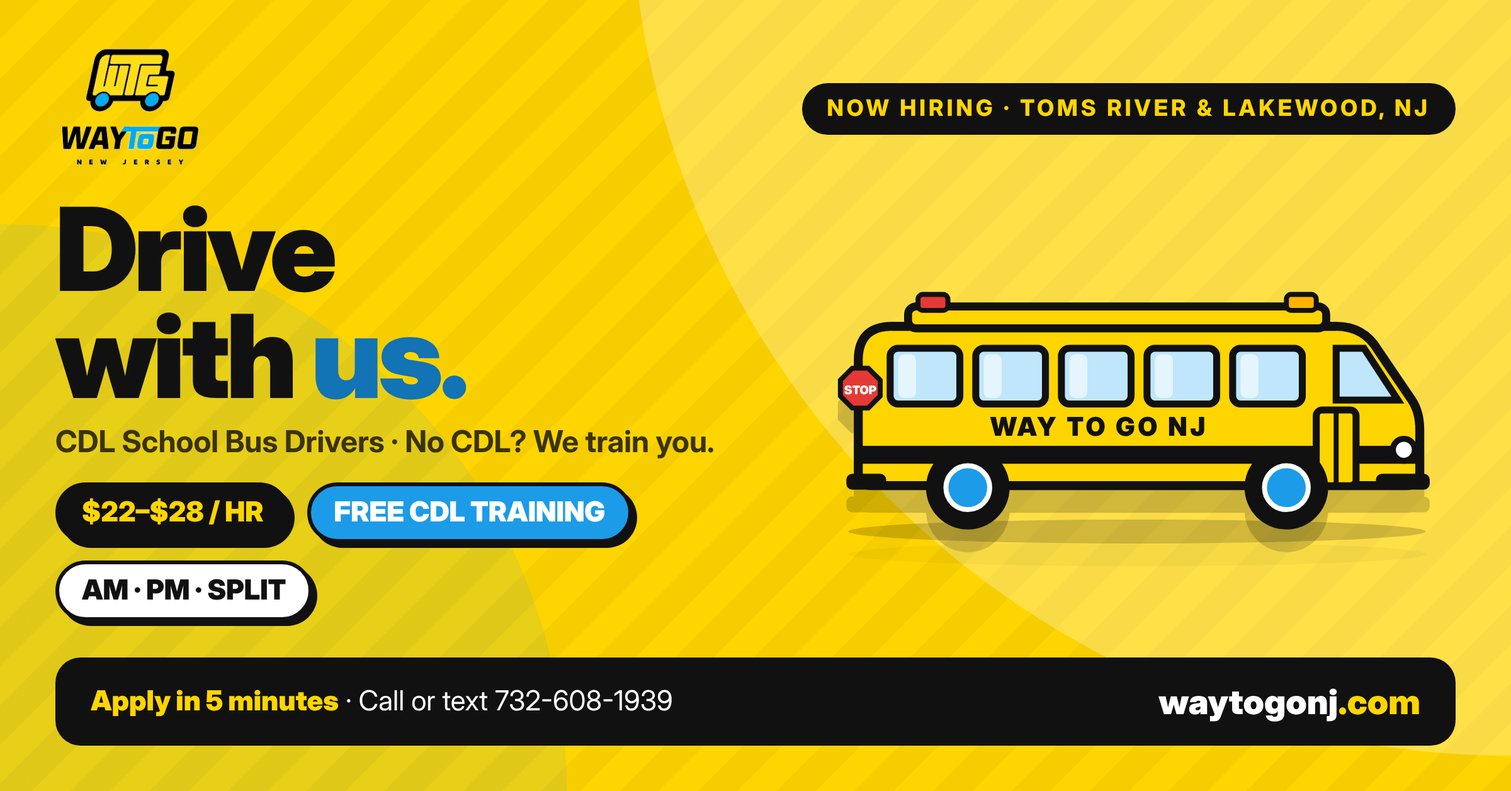
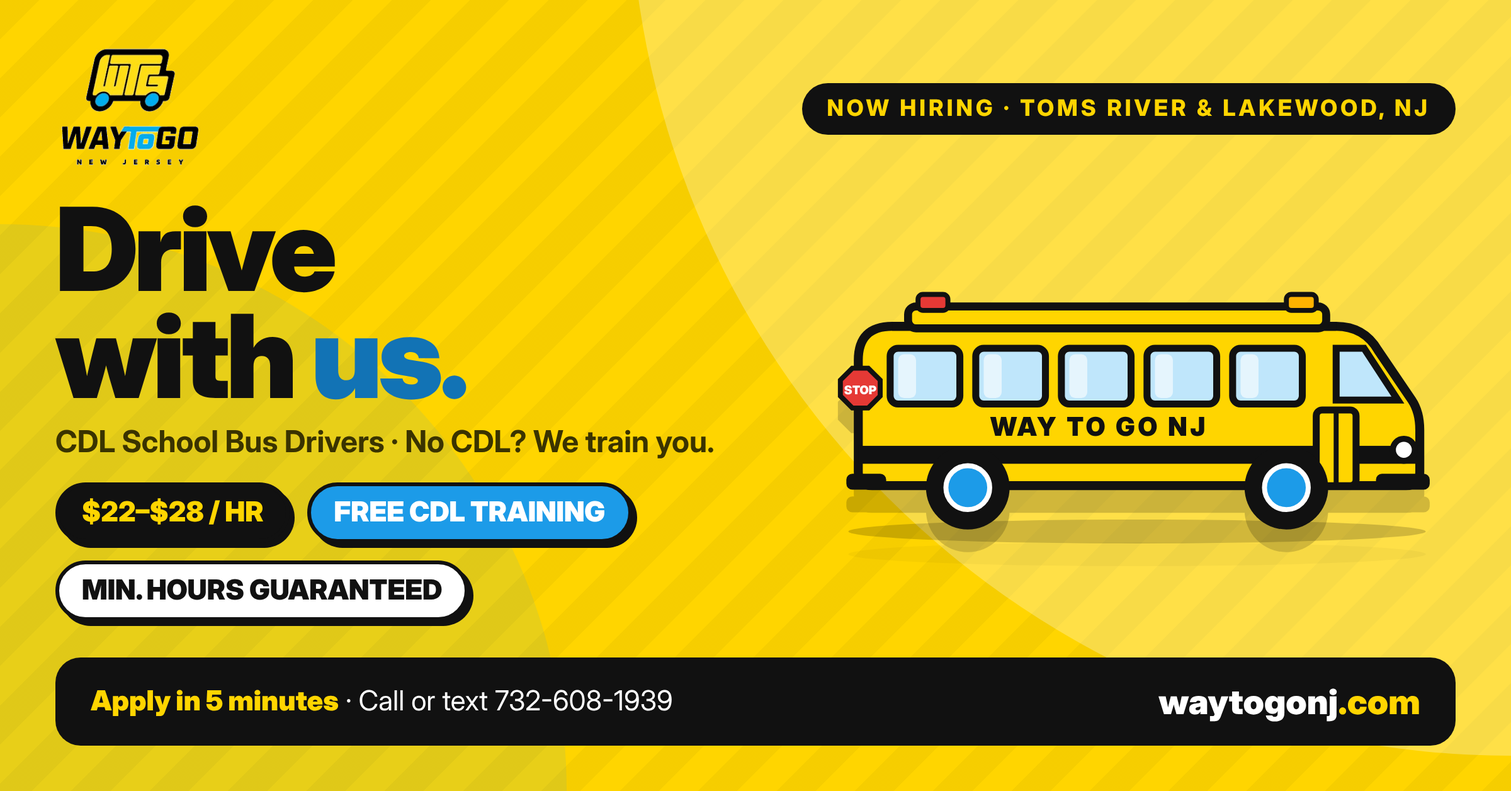
Remove shift wording everywhere; weekly planner in the Routine tab; ads updated
Claude-Session: https://claude.ai/code/session_01GpEHLGCwnEDuXkhiabGNJw

Changed region(s): [[0.0625, 0.6831, 0.3125, 0.8073]]

diff --git a/admin.html b/admin.html
@@ -98,7 +98,27 @@
     .tpl textarea { min-height: 140px; font-size: .92rem; }
     #qrbox { background: #fff; padding: 8px; border-radius: 8px; width: fit-content; }
 
-    /* routine */
+    /* routine planner */
+    .progress { height: 10px; background: var(--bg-alt); border-radius: 999px; overflow: hidden; border: 1px solid var(--line); }
+    .progress div { height: 100%; width: 0; background: var(--yellow); transition: width .3s; }
+    .days { display: grid; gap: 14px; grid-template-columns: repeat(auto-fit, minmax(280px, 1fr)); }
+    .day { background: #fff; border: 1px solid var(--line); border-radius: var(--radius); padding: 18px; display: flex; flex-direction: column; gap: 10px; }
+    .day.today { border: 2px solid var(--blue); box-shadow: 0 8px 24px rgba(28,155,232,.15); }
+    .day.past { opacity: .75; }
+    .day .dh { display: flex; justify-content: space-between; align-items: baseline; }
+    .day .dh b { font-size: 1.1rem; }
+    .day .dh span { font-size: .8rem; color: var(--muted); font-weight: 600; }
+    .day .dh .tdy { color: var(--blue-dark); }
+    .task { display: grid; grid-template-columns: 24px 1fr auto; gap: 10px; align-items: start; padding: 8px 0; border-top: 1px solid var(--line); }
+    .task:first-of-type { border-top: 0; }
+    .task input { width: 20px; height: 20px; margin: 2px 0 0; }
+    .task.done label { text-decoration: line-through; color: var(--muted); }
+    .task label { font-size: .95rem; cursor: pointer; }
+    .task .act { display: flex; gap: 6px; }
+    .task .act button, .task .act a { font: 600 .75rem var(--font); padding: 5px 10px; border-radius: 999px; border: 1px solid var(--line); background: var(--bg-alt); color: var(--ink); cursor: pointer; white-space: nowrap; }
+    .task .act button:hover, .task .act a:hover { background: var(--yellow); }
+    .day.off { background: var(--bg-alt); }
+    /* routine (legacy table) */
     table { border-collapse: collapse; width: 100%; font-size: .92rem; }
     th, td { text-align: left; padding: 10px; border-top: 1px solid var(--line); vertical-align: top; }
     th { font-size: .72rem; text-transform: uppercase; letter-spacing: .08em; color: var(--muted); }
@@ -240,30 +260,26 @@
   <!-- ROUTINE -->
   <section class="view" id="view-routine">
     <div class="panel">
-      <span class="eyebrow">Consistency beats budget</span>
-      <h2>Weekly posting routine</h2>
-      <p class="note">About 20 minutes a day on the company phone. Same text, rotated, so no platform goes quiet. Reply to every comment and message the same day. A driver who waits two days has already taken another job.</p>
-      <div class="tablewrap"><table>
-        <thead><tr><th>Day</th><th>Morning (after AM routes)</th><th>Afternoon (before PM routes)</th></tr></thead>
-        <tbody>
-          <tr><td>Monday</td><td>Refresh the Indeed post (edit the title or one line so it shows as updated). Post to the Facebook Page and Instagram from Business Suite.</td><td>Post in 3 Lakewood, Toms River, or Jackson Facebook jobs and community groups.</td></tr>
-          <tr><td>Tuesday</td><td>WhatsApp status and broadcast to the "Interested drivers" list. Check Indeed and ZipRecruiter candidates and text every new one.</td><td>Work the Leads tab: call everyone due today.</td></tr>
-          <tr><td>Wednesday</td><td>Instagram Reel or photo (a bus, a driver, the yard). Same clip to Facebook.</td><td>Post in 3 different groups (Jackson, Howell, Brick, Manchester).</td></tr>
-          <tr><td>Thursday</td><td>Referral reminder to current drivers (text template). Nextdoor and Google Business post.</td><td>Reply to every DM and comment. Update lead stages.</td></tr>
-          <tr><td>Friday</td><td>Craigslist and LinkedIn repost. ZipRecruiter check.</td><td>Call leads due this week who went quiet. Set next week's dates.</td></tr>
-          <tr><td>Sunday night</td><td colspan="2">Schedule next week's Facebook and Instagram posts in Meta Business Suite (10 minutes). Check the "Added this week" number in the Leads tab.</td></tr>
-        </tbody>
-      </table></div>
+      <div class="rowx" style="justify-content:space-between;align-items:flex-start">
+        <div>
+          <span class="eyebrow">About 20 minutes a day</span>
+          <h2 id="week-title">This week</h2>
+          <p class="note">Tick each task as you do it. The list resets every Monday. Reply to every comment and message the same day; a driver who waits two days has already taken another job.</p>
+        </div>
+        <div class="stat" style="min-width:150px;text-align:center"><b id="week-done">0/0</b><span>done this week</span></div>
+      </div>
+      <div class="progress"><div id="week-bar"></div></div>
     </div>
+    <div class="days" id="days"></div>
     <div class="panel">
       <h3>Rules that keep the money low</h3>
-      <div class="steps">
-        <div class="step"><div class="num">1</div><div><b>Free first, boost second.</b><p>Organic Indeed, Facebook groups, WhatsApp, Instagram, referrals and flyers are all free. Only boost a Facebook post ($5 a day, 5 days, Toms River + 15 miles) if a week of free posting brought fewer than 5 leads.</p></div></div>
-        <div class="step"><div class="num">2</div><div><b>Pay for ZipRecruiter only after the free trial proves it.</b><p>Count the leads it sends during the trial in the Leads tab (source = ZipRecruiter). Under 5 real leads, cancel before the trial ends.</p></div></div>
-        <div class="step"><div class="num">3</div><div><b>Referral bonus is the cheapest hire you will make.</b><p>Pay current drivers for every hire who lasts 90 days. It costs nothing until it works.</p></div></div>
-        <div class="step"><div class="num">4</div><div><b>Answer within the hour.</b><p>Keep WhatsApp Business and Indeed notifications on. Use the quick replies from the Posts tab so a reply takes 10 seconds.</p></div></div>
-        <div class="step"><div class="num">5</div><div><b>Recruit people without a CDL.</b><p>Most people who would be good drivers do not have a CDL yet. "Free training provided" is the one line that makes a post stand out. Say it in every post.</p></div></div>
-      </div>
+      <ul class="checks" style="margin-top:8px">
+        <li><b>Free first, boost second.</b> Only boost a Facebook post ($5 a day for 5 days, Toms River + 15 miles) if a week of free posting brought fewer than 5 leads.</li>
+        <li><b>Pay for ZipRecruiter only after the free trial proves it.</b> Under 5 real leads during the trial, cancel before it ends.</li>
+        <li><b>Referral bonus is the cheapest hire you will make.</b> Pay current drivers for every hire who lasts 90 days.</li>
+        <li><b>Answer within the hour.</b> Keep WhatsApp Business and Indeed notifications on and use the quick replies from the Posts tab.</li>
+        <li><b>Say "free training provided" in every post.</b> Most good drivers do not have a CDL yet.</li>
+      </ul>
     </div>
   </section>
 
@@ -295,7 +311,7 @@ const SOURCES = ['Website', 'Indeed', 'ZipRecruiter', 'Facebook post', 'Facebook
 const CDLS = ['Unknown', 'No CDL, willing to train', 'Has CDL, needs P/S', 'Has CDL with P & S'];
 const STAGES = ['New', 'Contacted', 'Interested', 'Interview set', 'Paperwork / training', 'Hired', 'Not now'];
 const CLOSED = ['Hired', 'Not now'];
-const LABELS = { type: 'Type', source: 'Source', fullName: 'Full name', organization: 'Organization', phone: 'Phone', email: 'Email', city: 'Town', zip: 'ZIP', within40: 'Within 40 min of Lakewood / Toms River', over21: 'At least 21', hasCdl: 'Holds CDL', cdlClass: 'CDL class', cdlState: 'License state', endorsements: 'Endorsements', cleanRecord: 'Clean driving record', experienceYears: 'School bus experience', lastEmployer: 'Most recent employer', otherExperience: 'Other passenger experience', positionType: 'Position wanted', shifts: 'Shifts', startDate: 'Earliest start', reliableTransport: 'Reliable transportation', canPass: 'Able to pass', hearAbout: 'Heard about us', referral: 'Referred by', notes: 'Their message / notes', consent: 'Consent', submittedFrom: 'Submitted from', license: 'License', next: 'Follow up on', adminNotes: 'Your notes', status: 'Stage' };
+const LABELS = { type: 'Type', source: 'Source', fullName: 'Full name', organization: 'Organization', phone: 'Phone', email: 'Email', city: 'Town', zip: 'ZIP', within40: 'Within 40 min of Lakewood / Toms River', over21: 'At least 21', hasCdl: 'Holds CDL', cdlClass: 'CDL class', cdlState: 'License state', endorsements: 'Endorsements', cleanRecord: 'Clean driving record', experienceYears: 'School bus experience', lastEmployer: 'Most recent employer', otherExperience: 'Other passenger experience', positionType: 'Position wanted', startDate: 'Earliest start', reliableTransport: 'Reliable transportation', canPass: 'Able to pass', hearAbout: 'Heard about us', referral: 'Referred by', notes: 'Their message / notes', consent: 'Consent', submittedFrom: 'Submitted from', license: 'License', next: 'Follow up on', adminNotes: 'Your notes', status: 'Stage' };
 const HIDDEN = new Set(['id', 'createdAt', 'updatedAt', 'status', 'next', 'adminNotes', 'license', 'source', 'type', 'fullName', 'phone', 'email', 'submittedFrom']);
 const opts = (arr, sel) => arr.map((v) => `<option ${v === sel ? 'selected' : ''}>${esc(v)}</option>`).join('');
 $('l_source').innerHTML = opts(SOURCES, 'Facebook post'); $('l_cdl').innerHTML = opts(CDLS); $('l_stage').innerHTML = opts(STAGES, 'New');
@@ -304,7 +320,7 @@ $('l_next').value = addDays(2);
 
 /* ---------- company details ---------- */
 const CFIELDS = ['phone', 'wa', 'email', 'contact', 'pay', 'bonus', 'cdl', 'hours'];
-const DEFAULTS = { phone: '732-608-1939', wa: '17326081939', email: 'info@waytogonj.com', contact: 'Ask for Jay', pay: '$22 to $28 per hour, based on experience and endorsements', bonus: 'Sign-on bonus opportunities and a referral bonus program', cdl: 'CDL with P and S endorsements preferred, not required. No CDL? Free training provided.', hours: 'AM routes, PM routes, and split shifts. Full-time, part-time, and on-call. Minimum hours guaranteed.' };
+const DEFAULTS = { phone: '732-608-1939', wa: '17326081939', email: 'info@waytogonj.com', contact: 'Ask for Jay', pay: '$22 to $28 per hour, based on experience and endorsements', bonus: 'Sign-on bonus opportunities and a referral bonus program', cdl: 'CDL with P and S endorsements preferred, not required. No CDL? Free training provided.', hours: 'Full-time, part-time, and on-call positions. Minimum hours guaranteed.' };
 let company = { ...DEFAULTS };
 const C = (k) => company[k] || '';
 function fillCompanyForm() { CFIELDS.forEach((k) => { $('c_' + k).value = company[k] || ''; }); }
@@ -326,7 +342,6 @@ What you get:
 • Steady routes close to home (Toms River, Lakewood, Jackson, Howell, Brick)
 • Minimum hours guaranteed
 • Free training, and help with your CDL and endorsements
-• Mornings and afternoons, so the middle of your day is yours
 • Extra hours on field trips and activity runs
 • A dispatch team that picks up the phone
 
@@ -343,7 +358,7 @@ ${C('pay')}${b1}
 ${C('hours')}
 ${C('cdl')}
 
-Mornings and afternoons, home in between. Retirees, parents, CDL holders who want to be home every night: this is the schedule you have been looking for.
+Steady work close to home. Retirees, parents, and CDL holders who want to be home every night: this is the job you have been looking for.
 
 📲 ${C('phone') ? 'Call or text ' + C('phone') : ''}
 📝 Apply in 5 minutes: ${APPLY_URL}
@@ -352,19 +367,19 @@ ${waLink() ? '💬 WhatsApp: ' + waLink() : ''}
 Share this with someone who would be a great driver. 🙏
 #LakewoodNJ #TomsRiver #OceanCountyJobs #BusDriver #CDLJobs #NowHiring #JacksonNJ #HowellNJ #WayToGoNJ` },
   { k: 'group', title: 'Facebook group post (short, community tone)', where: 'Local jobs and community groups. One group post a week each.', text:
-`Hi neighbors. Way To Go NJ (local school bus company, Toms River) is hiring CDL school bus drivers. ${C('pay')}. AM and PM routes, middle of the day free. ${C('cdl')} Great for retirees and parents. ${C('phone') ? 'Text ' + C('phone') : ''} or apply at ${APPLY_URL} and we will call you back the same day. Thanks for sharing!` },
+`Hi neighbors. Way To Go NJ (local school bus company, Toms River) is hiring CDL school bus drivers. ${C('pay')}. ${C('cdl')} Great for retirees and parents. ${C('phone') ? 'Text ' + C('phone') : ''} or apply at ${APPLY_URL} and we will call you back the same day. Thanks for sharing!` },
   { k: 'ig', title: 'Instagram Reel / Story caption', where: 'Short clip of the bus or yard. Put the apply link in the bio.', text:
-`We need drivers. Lakewood, Toms River and the surrounding towns. ${C('pay')}. Mornings and afternoons only. ${C('cdl')}
+`We need drivers. Lakewood, Toms River and the surrounding towns. ${C('pay')}. Minimum hours guaranteed. ${C('cdl')}
 Tap the link in bio or DM us "DRIVER" and we will text you today. 🚌
 #NowHiring #TomsRiver #BusDriver #CDL #LakewoodNJ` },
   { k: 'wa', title: 'WhatsApp status + broadcast message', where: 'Post as status every Tuesday. Send to the "Interested drivers" broadcast list.', text:
-`Way To Go NJ is hiring CDL school bus drivers in Toms River. ${C('pay')}. AM/PM routes, middle of the day free. ${C('cdl')} Reply to this message or ${C('phone') ? 'call ' + C('phone') : 'call us'} and we will get you started this week. Please forward to anyone looking for steady work. 🚌` },
+`Way To Go NJ is hiring CDL school bus drivers in Toms River. ${C('pay')}. Minimum hours guaranteed. ${C('cdl')} Reply to this message or ${C('phone') ? 'call ' + C('phone') : 'call us'} and we will get you started this week. Please forward to anyone looking for steady work. 🚌` },
   { k: 'dm', title: 'Direct message to a prospect (cold)', where: 'Someone who commented, liked, or is in a drivers group.', text:
-`Hi [NAME], this is ${C('contact') ? C('contact').replace(/^Ask for /i, '') : 'the hiring team'} from Way To Go NJ in Toms River. We are hiring CDL school bus drivers, ${C('pay')}, mornings and afternoons with the middle of the day free. ${C('cdl')} Would you be open to a 5-minute call this week? What time works for you?` },
+`Hi [NAME], this is ${C('contact') ? C('contact').replace(/^Ask for /i, '') : 'the hiring team'} from Way To Go NJ in Toms River. We are hiring CDL school bus drivers, ${C('pay')}. ${C('cdl')} Would you be open to a 5-minute call this week? What time works for you?` },
   { k: 'follow', title: 'Follow-up text (lead went quiet)', where: '3 days after first contact, then once more a week later.', text:
 `Hi [NAME], Way To Go NJ here. Still have a route open near you, ${C('pay')}. Want me to hold it for you while you decide? Reply YES and I will send the next step, or apply at ${APPLY_URL}. ${C('phone') ? '- ' + C('phone') : ''}` },
   { k: 'ref', title: 'Referral bonus text to current drivers', where: 'Every Thursday to your whole driver list.', text:
-`Team: we are still short on drivers. ${C('bonus') ? C('bonus') + '. ' : ''}Know anyone reliable who wants ${C('pay')} and a split schedule? Send them this link and tell them to put your name under "Referred by": ${APPLY_URL}. Thank you for helping us grow. - Way To Go NJ` },
+`Team: we are still short on drivers. ${C('bonus') ? C('bonus') + '. ' : ''}Know anyone reliable who wants ${C('pay')} and steady work close to home? Send them this link and tell them to put your name under "Referred by": ${APPLY_URL}. Thank you for helping us grow. - Way To Go NJ` },
   { k: 'quick', title: 'WhatsApp Business quick replies', where: 'Settings > Business tools > Quick replies. One per line pair.', text:
 `/pay → ${C('pay')}${b1}
 /hours → ${C('hours')}
@@ -440,6 +455,59 @@ function renderSteps() {
 }
 renderSteps();
 
+
+/* ---------- weekly planner ---------- */
+const PLAN = [
+  { d: 'Monday', tasks: [
+    { k: 'mon1', t: 'Refresh the Indeed post (edit the title or one line so it shows as updated).', open: 'https://employers.indeed.com/jobs' },
+    { k: 'mon2', t: 'Post to the Facebook Page and Instagram from Business Suite.', copy: 'fb', open: 'https://business.facebook.com/latest/home' },
+    { k: 'mon3', t: 'Post in 3 local Facebook groups (Lakewood, Toms River, Jackson).', copy: 'group', open: 'https://m.facebook.com/groups/' } ] },
+  { d: 'Tuesday', tasks: [
+    { k: 'tue1', t: 'Post the WhatsApp status and send the broadcast to interested drivers.', copy: 'wa' },
+    { k: 'tue2', t: 'Check Indeed and ZipRecruiter candidates. Text every new one.', open: 'https://employers.indeed.com/candidates' },
+    { k: 'tue3', t: 'Leads tab: call everyone due today.', tab: 'leads' } ] },
+  { d: 'Wednesday', tasks: [
+    { k: 'wed1', t: 'Instagram Reel or photo (a bus, a driver, the yard). Same clip to Facebook.', copy: 'ig', open: 'https://www.instagram.com/' },
+    { k: 'wed2', t: 'Post in 3 different groups (Howell, Brick, Manchester).', copy: 'group', open: 'https://m.facebook.com/groups/' } ] },
+  { d: 'Thursday', tasks: [
+    { k: 'thu1', t: 'Referral reminder to current drivers.', copy: 'ref' },
+    { k: 'thu2', t: 'Nextdoor and Google Business post.', copy: 'group', open: 'https://business.google.com/' },
+    { k: 'thu3', t: 'Reply to every DM and comment. Update lead stages.', tab: 'leads' } ] },
+  { d: 'Friday', tasks: [
+    { k: 'fri1', t: 'Craigslist and LinkedIn repost.', copy: 'cl', open: 'https://post.craigslist.org/c/jys' },
+    { k: 'fri2', t: 'Call leads from this week who went quiet. Set next week\'s follow-up dates.', tab: 'leads' } ] },
+  { d: 'Saturday', off: true, tasks: [
+    { k: 'sat1', t: 'Day off. Reply to messages only.' } ] },
+  { d: 'Sunday', tasks: [
+    { k: 'sun1', t: 'Schedule next week\'s Facebook and Instagram posts in Business Suite (10 minutes).', copy: 'fb', open: 'https://business.facebook.com/latest/home' },
+    { k: 'sun2', t: 'Check the "New this week" number in the Leads tab. Under 5? Boost one Facebook post.', tab: 'leads' } ] },
+];
+let routine = { week: '', done: {} };
+function weekKey() { const d = new Date(); const day = (d.getDay() + 6) % 7; const mon = new Date(d); mon.setDate(d.getDate() - day); mon.setHours(0,0,0,0); return mon.toISOString().slice(0, 10); }
+function weekDates() { const mon = new Date(weekKey() + 'T00:00:00'); return Array.from({ length: 7 }, (_, i) => { const x = new Date(mon); x.setDate(mon.getDate() + i); return x; }); }
+function renderRoutine() {
+  if (routine.week !== weekKey()) routine = { week: weekKey(), done: {} };
+  const dates = weekDates(); const todayIdx = (new Date().getDay() + 6) % 7;
+  const fmtD = (x) => x.toLocaleDateString([], { month: 'short', day: 'numeric' });
+  $('week-title').textContent = 'Week of ' + fmtD(dates[0]) + ' to ' + fmtD(dates[6]);
+  let total = 0, done = 0;
+  $('days').innerHTML = PLAN.map((day, i) => {
+    const cls = (i === todayIdx ? 'today' : i < todayIdx ? 'past' : '') + (day.off ? ' off' : '');
+    const tasks = day.tasks.map((t) => { if (!day.off) total++; const ok = !!routine.done[t.k]; if (ok && !day.off) done++;
+      const acts = [t.copy ? `<button type="button" data-rcopy="${t.copy}">Copy post</button>` : '', t.open ? `<a href="${t.open}" target="_blank" rel="noopener">Open</a>` : '', t.tab ? `<button type="button" data-rtab="${t.tab}">Go</button>` : ''].join('');
+      return `<div class="task ${ok ? 'done' : ''}"><input type="checkbox" id="r_${t.k}" data-rk="${t.k}" ${ok ? 'checked' : ''}><label for="r_${t.k}">${esc(t.t)}</label><div class="act">${acts}</div></div>`; }).join('');
+    return `<div class="day ${cls}"><div class="dh"><b>${day.d}</b><span class="${i === todayIdx ? 'tdy' : ''}">${i === todayIdx ? 'Today · ' : ''}${fmtD(dates[i])}</span></div>${tasks}</div>`;
+  }).join('');
+  $('week-done').textContent = done + '/' + total;
+  $('week-bar').style.width = (total ? Math.round(done / total * 100) : 0) + '%';
+}
+renderRoutine();
+$('days').addEventListener('click', (e) => {
+  const b = e.target.closest('button'); if (!b) return;
+  if (b.dataset.rcopy) { const el = $('tpl_' + b.dataset.rcopy); copyText(el ? el.value : (TPLS().find((t) => t.k === b.dataset.rcopy) || {}).text || ''); }
+  if (b.dataset.rtab) showTab(b.dataset.rtab);
+});
+
 /* ---------- database ---------- */
 if (!isConfigured()) { $('login-off').style.display = 'block'; $('login-btn').disabled = true; return; }
 let fb;
@@ -466,6 +534,7 @@ function startListening() {
   }));
   unsubs.push(fs.onSnapshot(fs.doc(db, 'settings', 'company'), (snap) => { if (snap.exists()) { company = { ...DEFAULTS, ...snap.data() }; fillCompanyForm(); renderTemplates(); $('companyStatus').textContent = 'Loaded from the shared database.'; } }, () => {}));
   unsubs.push(fs.onSnapshot(fs.doc(db, 'settings', 'checklist'), (snap) => { if (snap.exists()) { checklist = snap.data().done || {}; renderSteps(); } }, () => {}));
+  unsubs.push(fs.onSnapshot(fs.doc(db, 'settings', 'routine'), (snap) => { if (snap.exists()) { const r = snap.data(); routine = { week: r.week || '', done: r.done || {} }; } renderRoutine(); }, () => {}));
 }
 function stopListening() { unsubs.forEach((u) => { try { u(); } catch (e) {} }); unsubs = []; }
 
@@ -563,6 +632,13 @@ $('saveCompany').addEventListener('click', async () => {
   const data = readCompanyForm(); company = { ...DEFAULTS, ...data }; renderTemplates();
   try { await fs.setDoc(fs.doc(db, 'settings', 'company'), data, { merge: true }); $('companyStatus').textContent = 'Saved and shared with every device you sign in on.'; toast('Details saved'); }
   catch (e) { $('companyStatus').textContent = 'Could not save. ' + friendlyError(e); }
+});
+$('days').addEventListener('change', async (e) => {
+  const k = e.target.dataset.rk; if (!k) return;
+  if (routine.week !== weekKey()) routine = { week: weekKey(), done: {} };
+  if (e.target.checked) routine.done[k] = true; else delete routine.done[k];
+  renderRoutine();
+  try { await fs.setDoc(fs.doc(db, 'settings', 'routine'), { week: routine.week, done: routine.done }); } catch (err) { toast('Could not save. ' + friendlyError(err)); }
 });
 $('steps').addEventListener('change', async (e) => {
   const k = e.target.dataset.step; if (!k) return;

diff --git a/drive.html b/drive.html
@@ -4,12 +4,12 @@
   <meta charset="utf-8">
   <meta name="viewport" content="width=device-width, initial-scale=1">
   <title>CDL School Bus Driver Jobs in Toms River & Lakewood, NJ | Way To Go NJ</title>
-  <meta name="description" content="WAY TO GO NJ LLC is hiring CDL school bus drivers in Toms River and Lakewood, NJ. $22 to $28 per hour, flexible AM, PM and split shifts, minimum hours guaranteed. No CDL? Free training provided. Apply online in five minutes.">
+  <meta name="description" content="WAY TO GO NJ LLC is hiring CDL school bus drivers in Toms River and Lakewood, NJ. $22 to $28 per hour, minimum hours guaranteed. No CDL? Free training provided. Apply online in five minutes.">
   <link rel="canonical" href="https://waytogonj.com/drive.html">
   <meta property="og:type" content="website">
   <meta property="og:site_name" content="Way To Go NJ">
   <meta property="og:title" content="CDL School Bus Driver Jobs in Toms River &amp; Lakewood, NJ | Way To Go NJ">
-  <meta property="og:description" content="WAY TO GO NJ LLC is hiring CDL school bus drivers in Toms River and Lakewood, NJ. $22 to $28 per hour, flexible AM, PM and split shifts, minimum hours guaranteed. No CDL? Free training provided. Apply online in five minutes.">
+  <meta property="og:description" content="WAY TO GO NJ LLC is hiring CDL school bus drivers in Toms River and Lakewood, NJ. $22 to $28 per hour, minimum hours guaranteed. No CDL? Free training provided. Apply online in five minutes.">
   <meta property="og:url" content="https://waytogonj.com/drive.html">
   <meta property="og:image" content="https://waytogonj.com/img/logo.png">
   <meta name="twitter:card" content="summary">
@@ -43,7 +43,7 @@
     "@context": "https://schema.org",
     "@type": "JobPosting",
     "title": "CDL School Bus Driver",
-    "description": "<p>WAY TO GO NJ LLC is hiring experienced and dependable CDL School Bus Drivers in Toms River, NJ. Earn $22 to $28 per hour based on experience and endorsements. Flexible schedules with AM routes, PM routes and split shifts. Full-time, part-time and on-call positions. Minimum hours guaranteed. Sign-on bonus opportunities and referral bonus program. No CDL yet? Free training provided.</p><p>Requirements: at least 21 years old, clean driving record, able to pass a DOT physical, drug screening, fingerprinting and criminal background check. CDL with P and S endorsements preferred, not required.</p>",
+    "description": "<p>WAY TO GO NJ LLC is hiring experienced and dependable CDL School Bus Drivers in Toms River, NJ. Earn $22 to $28 per hour based on experience and endorsements. Full-time, part-time and on-call positions. Minimum hours guaranteed. Sign-on bonus opportunities and referral bonus program. No CDL yet? Free training provided.</p><p>Requirements: at least 21 years old, clean driving record, able to pass a DOT physical, drug screening, fingerprinting and criminal background check. CDL with P and S endorsements preferred, not required.</p>",
     "datePosted": "2026-10-16",
     "validThrough": "2027-04-16T23:59",
     "employmentType": ["FULL_TIME", "PART_TIME"],
@@ -72,7 +72,7 @@
     <p class="lead">WAY TO GO NJ LLC is hiring experienced and dependable CDL School Bus Drivers in Toms River, NJ. Earn from $22 to $28 per hour. <strong>Free training provided!</strong></p>
     <div class="facts">
       <div class="fact"><b>$22 to $28</b><span>per hour, based on experience and endorsements</span></div>
-      <div class="fact"><b>Flexible</b><span>AM, PM and split shifts</span></div>
+      <div class="fact"><b>Bonuses</b><span>sign-on and referral bonus programs</span></div>
       <div class="fact"><b>Guaranteed</b><span>minimum hours</span></div>
       <div class="fact"><b>Free training</b><span>provided. No CDL yet? Apply anyway</span></div>
     </div>
@@ -86,8 +86,8 @@
 <section>
   <div class="wrap">
     <h2>About the role</h2>
-    <p class="lead">As a growing school transportation company serving Lakewood and its surrounding towns, we are committed to providing safe, reliable, and professional transportation services for students. We are seeking qualified CDL drivers who want stable work, flexible scheduling options, and opportunities for long-term growth.</p>
-    <p class="lead">Whether you're looking for full-time hours, part-time work, or flexible on-call opportunities, we want to hear from you.</p>
+    <p class="lead">As a growing school transportation company serving Lakewood and its surrounding towns, we are committed to providing safe, reliable, and professional transportation services for students. We are seeking qualified CDL drivers who want stable work and opportunities for long-term growth.</p>
+    <p class="lead">Whether you're looking for full-time hours, part-time work, or on-call opportunities, we want to hear from you.</p>
   </div>
 </section>
 
@@ -108,8 +108,6 @@
         <h3>Schedule</h3>
         <ul class="checks">
           <li>Minimum hours guaranteed</li>
-          <li>Flexible scheduling options</li>
-          <li>AM routes, PM routes, and split shifts available</li>
           <li>Full-time, part-time, and roster/on-call positions available</li>
         </ul>
       </div>

diff --git a/apply.html b/apply.html
@@ -143,15 +143,6 @@
             <label><input type="radio" name="positionType" value="Roster / on call"> Roster / on call</label>
           </div>
         </div>
-        <div class="field">
-          <label>Shifts you can work</label>
-          <div class="choices">
-            <label><input type="checkbox" name="shifts" value="AM routes"> AM routes</label>
-            <label><input type="checkbox" name="shifts" value="PM routes"> PM routes</label>
-            <label><input type="checkbox" name="shifts" value="Split shifts"> Split shifts</label>
-            <label><input type="checkbox" name="shifts" value="Field trips / activities"> Field trips / activities</label>
-          </div>
-        </div>
         <div class="row">
           <div class="field"><label for="startDate">Earliest start date</label><input id="startDate" name="startDate" type="date"></div>
           <div class="field">
